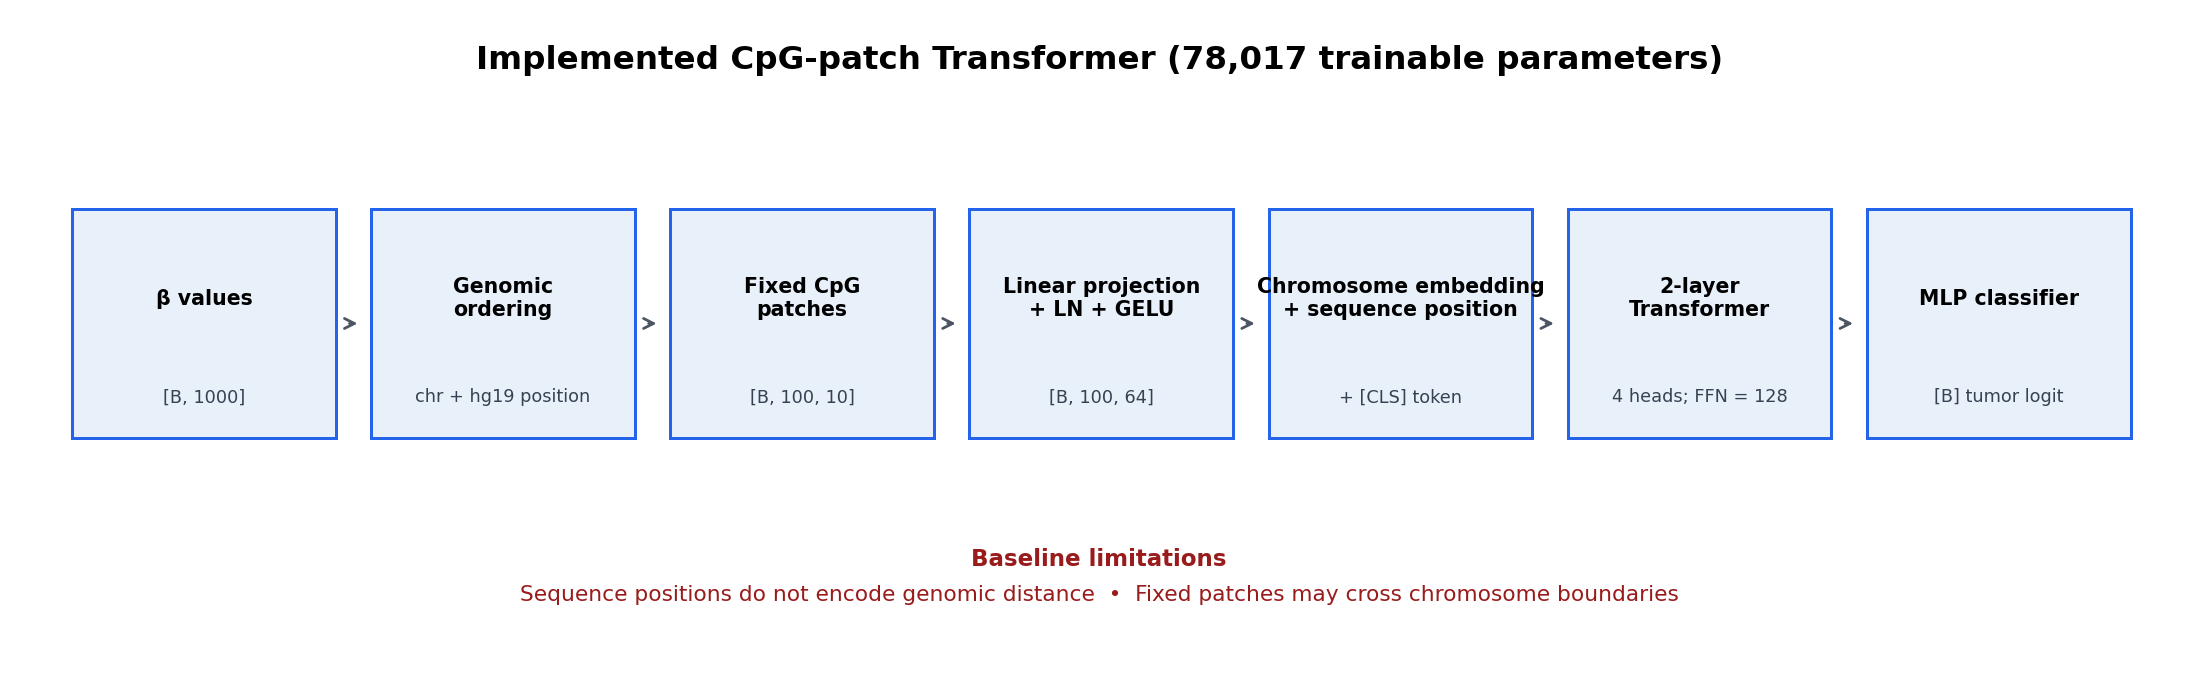
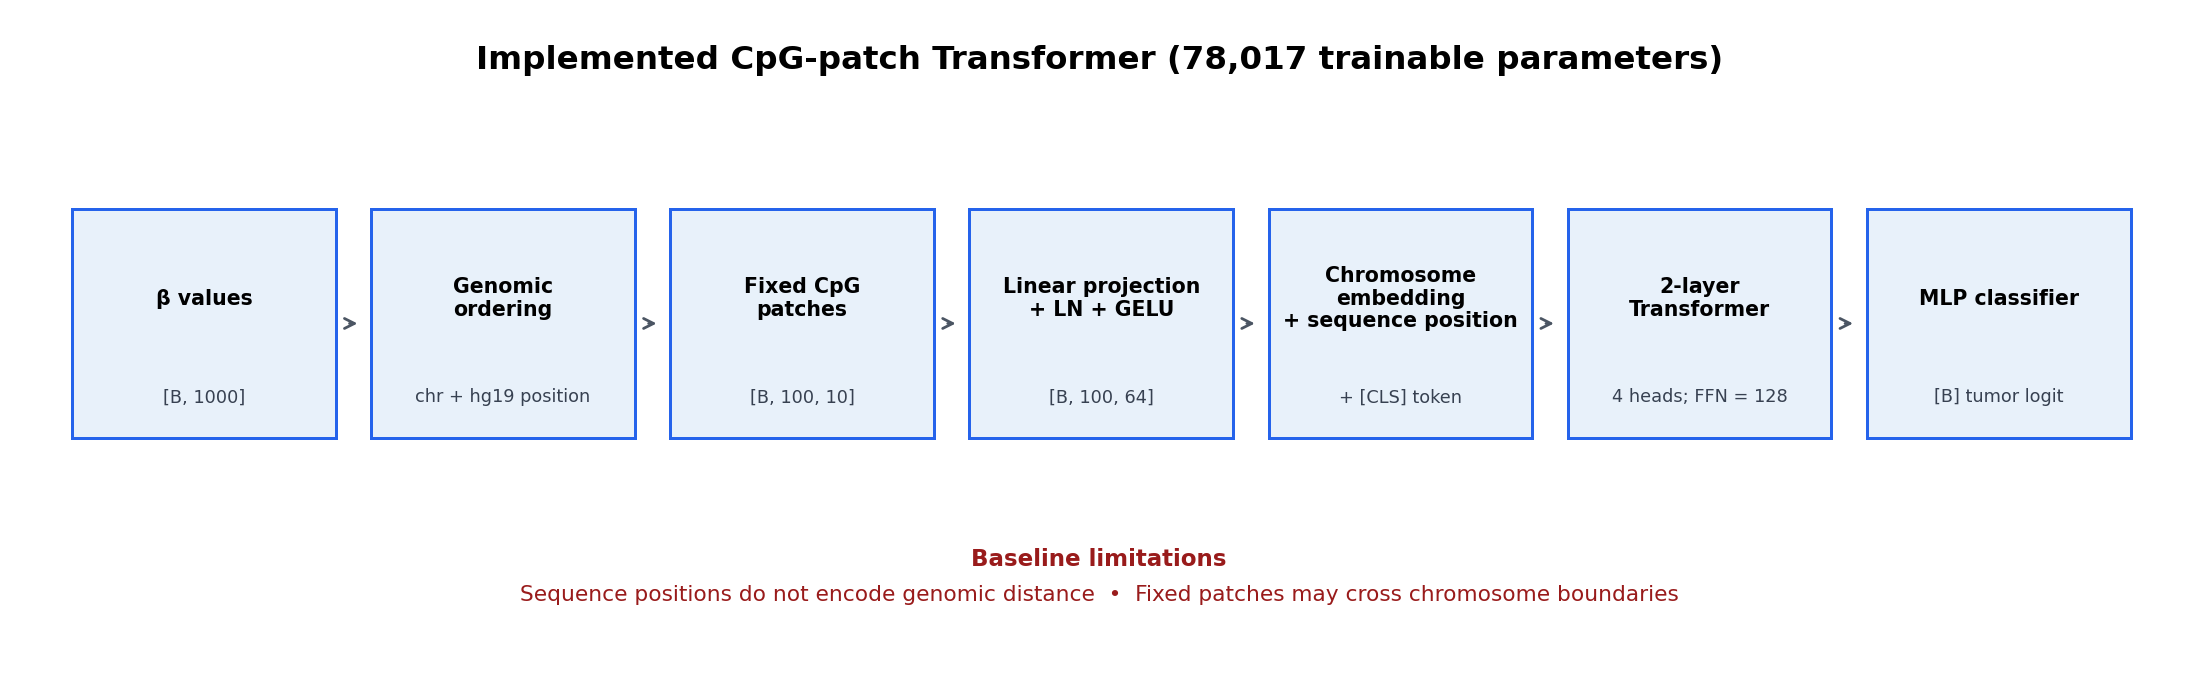
Wrap chromosome embedding label

Changed region(s): [[0.5569, 0.3744, 0.7116, 0.4993]]

diff --git a/scripts/08_evaluation/make_portfolio_figures.py b/scripts/08_evaluation/make_portfolio_figures.py
@@ -122,7 +122,7 @@ boxes = [
     ("Genomic\nordering", "chr + hg19 position"),
     ("Fixed CpG\npatches", "[B, 100, 10]"),
     ("Linear projection\n+ LN + GELU", "[B, 100, 64]"),
-    ("Chromosome embedding\n+ sequence position", "+ [CLS] token"),
+    ("Chromosome\nembedding\n+ sequence position", "+ [CLS] token"),
     ("2-layer\nTransformer", "4 heads; FFN = 128"),
     ("MLP classifier", "[B] tumor logit"),
 ]
